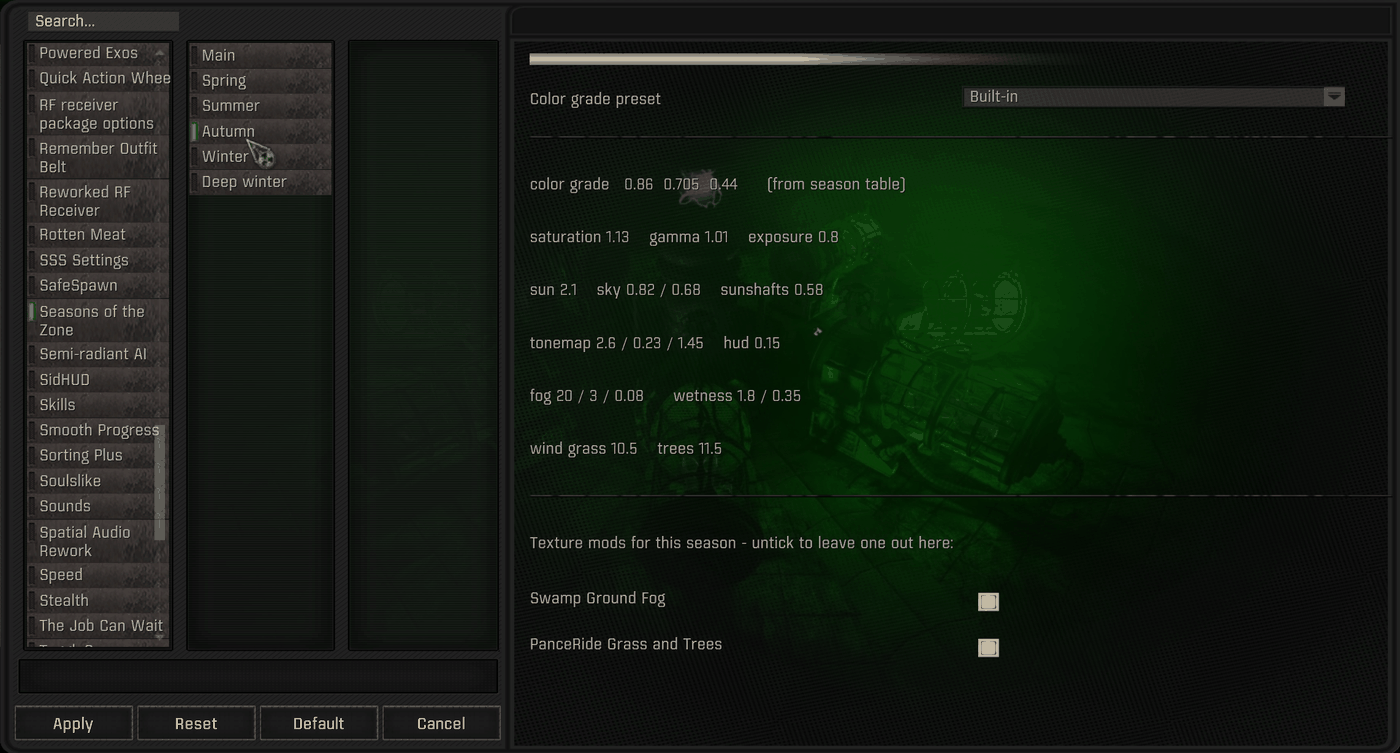
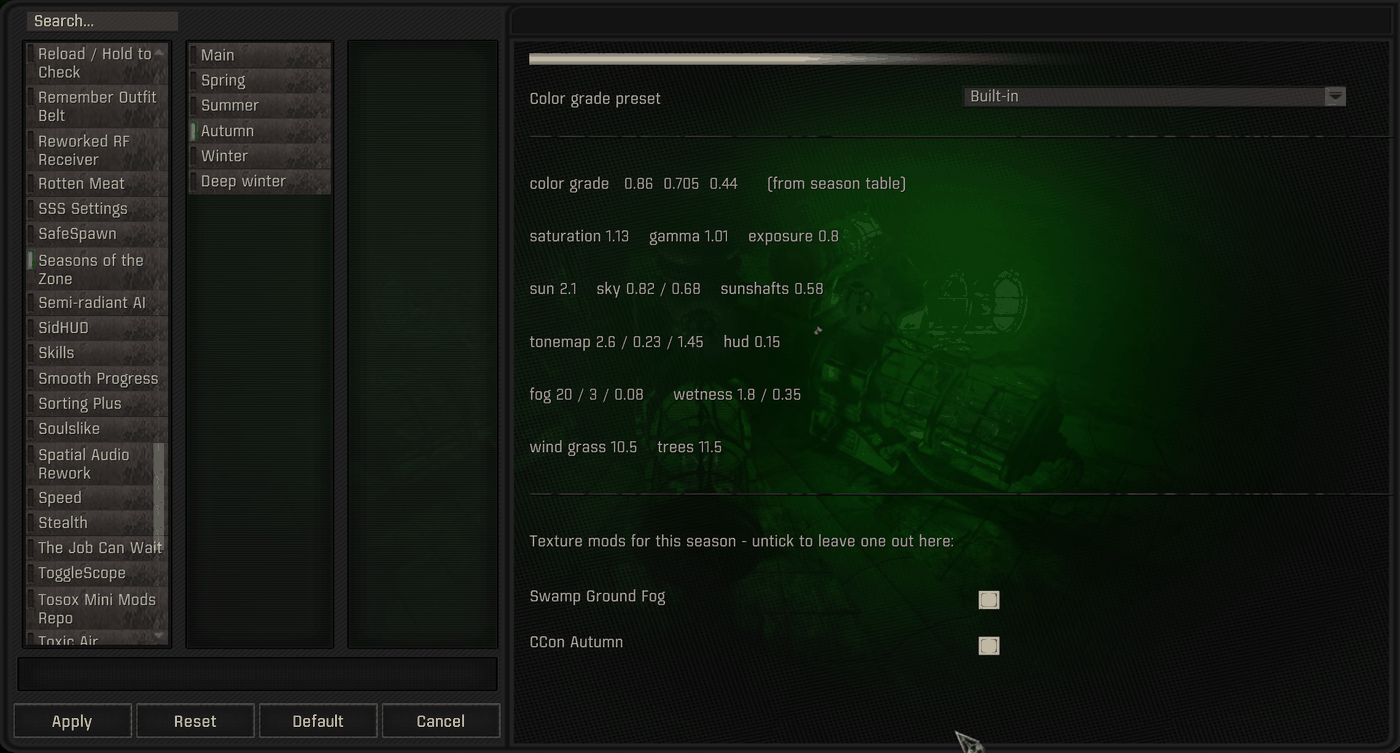
Retake the Autumn MCM shot and name the pack it actually shows
The screenshot on the Autumn page still listed PanceRide Grass and Trees as
the autumn texture set. C Consciousness replaced it, so both the image and the
caption under it described a pack the page no longer offers.

The new shot is cropped and quantised to match the other interface images:
1400x753, 256 colours, 544 KB against their 527-548 KB.

Also adds C Consciousness to the table of mods that work well as seasonal
layers - four sets against PanceRide's two, plus a grass placement that does
not change with the season and so is not a seasonal entry - and to the credits.
PanceRide stays listed; it still works, and that table is a catalogue rather
than a description of any one setup.

Documentation only. The mod, the tools, the patcher and the example config are
byte-identical to the 1.3.0 release, verified by diffing the published asset
member by member, so this needs no new version.

diff --git a/README.md b/README.md
@@ -155,6 +155,7 @@ Use that name. If no mod ships the file, any position works.
 |---|---|---|
 | Project I.N.V.E.R.N.O — winter textures | `winter`, `winter_snow` | Terrain, flora and levels. Must outrank your grass mod and Atmospherics/SSS; it carries its own shader headers. |
 | I.N.V.E.R.N.O — "Partly snowy" ground detail | `winter` | Patchy ground while the snow arrives. Above the base INVERNO. |
+| C Consciousness Grass & Trees | `spring` / `summer` / `autumn` / `winter` | Four sets, one entry each; the Dead set covers both winters under the snow. Its grass placement does not change with the season, so that part stays mounted year-round and is not a seasonal entry. |
 | Grass and Trees by PanceRide | `summer` / `autumn` | Matching Summer and Autumn editions; two entries, one per season. |
 | Winter loading screens | `winter`, `winter_snow` | Above your loading-screen mod. |
 | Winter PDA maps | `winter`, `winter_snow` | Above every mod that ships map textures, INVERNO included. |
@@ -260,4 +261,4 @@ particles by S.e.m.i.t.o.n.e.) is not shipped in any form; the patcher carries o
 seasonal layer.
 
 Built on **Screen Space Shaders** by Ascii1457 and **G.A.M.M.A.** by Grokitach. Seasonal
-texture sets by the I.N.V.E.R.N.O, PanceRide and Aydin authors.
+texture sets by the I.N.V.E.R.N.O, C Consciousness, PanceRide and Aydin authors.

diff --git a/docs/INTERFACE.md b/docs/INTERFACE.md
@@ -64,9 +64,9 @@ text gives the mod's full span, file count and size.
 ![The Autumn page](images/mcm-season-autumn.png)
 
 A mod is listed on the page of every season it serves, so its name carries no season: on
-the Autumn page above, *PanceRide Grass and Trees* is the autumn set.
+the Autumn page above, *CCon Autumn* is the autumn set.
 
-The mods shown are third-party texture packs (I.N.V.E.R.N.O, PanceRide and others). None
+The mods shown are third-party texture packs (I.N.V.E.R.N.O, C Consciousness and others). None
 of them are included in this mod.
 
 ---
